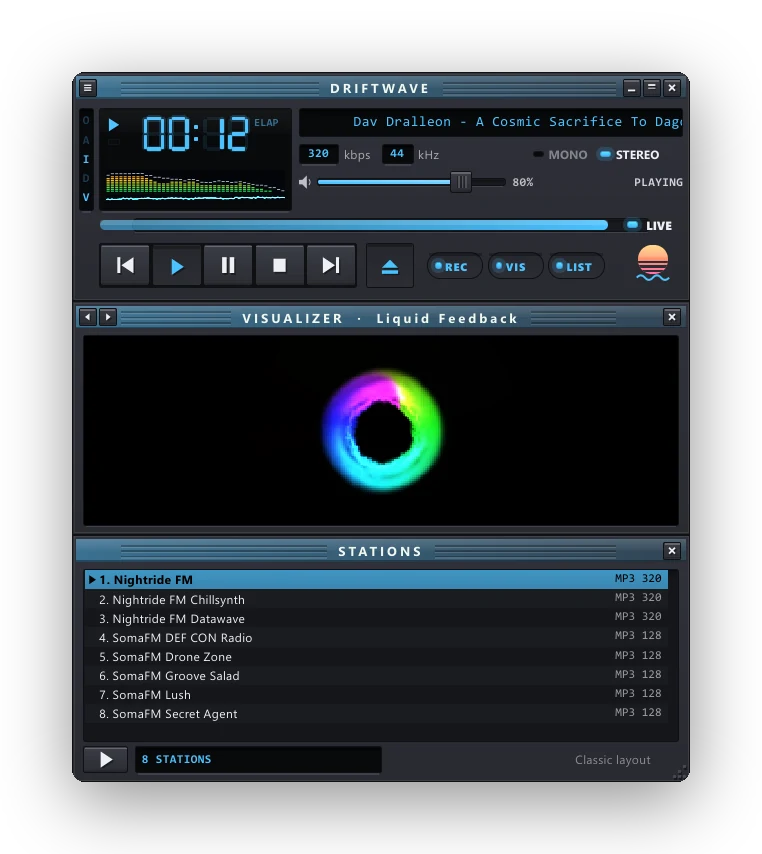
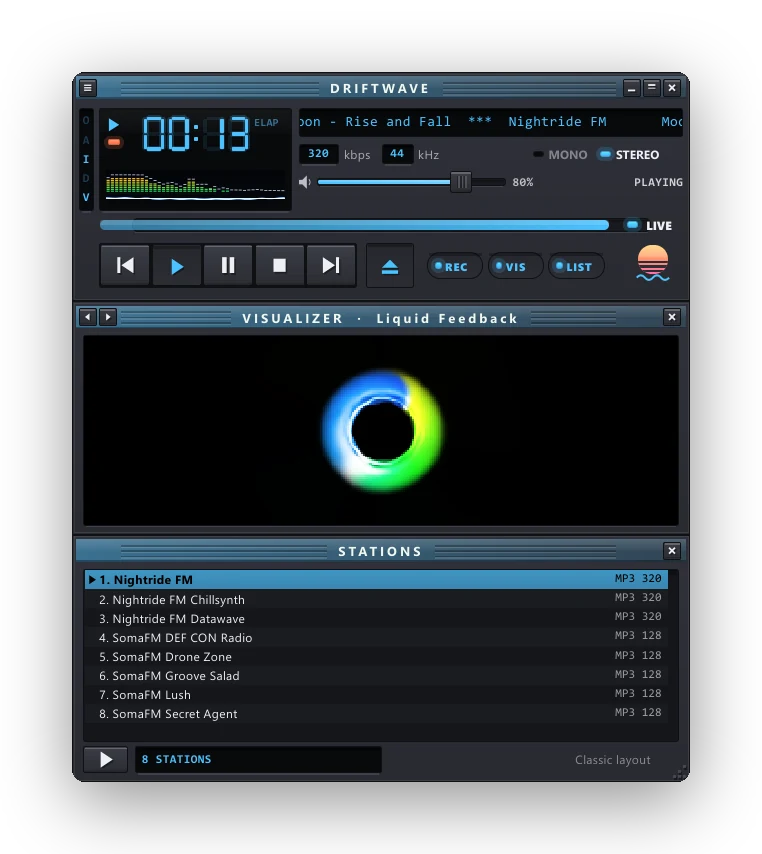
1.0.0-alpha.2: README pictures, smaller photos, sync doc round 16
- Version 1.0.0-alpha.2.
- README screenshots re-shot after the colour rule. The gallery gains
  Woodgrain and Home Screen. The text mentions Full's right-click menu
  and that Classic is made of the same material. The download is 15.8 MB.
- The colour-shifted photos are re-saved at quality 84 from the
  originals: smaller than before the shift, still clean.
- docs/MAC-WINDOWS-SYNC.md, round 16: what changed, and the Mac's asks
  before alpha.2 is published.

Claude-Session: https://claude.ai/code/session_01T34dZ1Pnukb4YPFUwMuNxf

diff --git a/tools/safe_hues.py b/tools/safe_hues.py
@@ -130,5 +130,5 @@ if __name__ == '__main__':
             if name.lower().endswith('.png'):
                 out.save(path, optimize=True)
             else:
-                out.save(path, quality=90, optimize=True)
+                out.save(path, quality=84, optimize=True, progressive=True)
             print(f'{name}: {before:.1f}% -> {share(out):.1f}% banned')

diff --git a/docs/MAC-WINDOWS-SYNC.md b/docs/MAC-WINDOWS-SYNC.md
@@ -8,6 +8,79 @@ other for something and reports back. Newest round at the top. Git is the transp
 - On 2026-11-17 the Mac fast-forwarded `nightly` to `windows` (09fd9a9), so the two share history
   and this file. Edit only your own side's sections to keep merges clean.
 
+## Round 16 (2026-11-20): the colour rule, Classic matches Full, Woodgrain, Full's right-click menu; alpha.2
+
+**Josh's asks:**
+- "Remove the teal and purple and pinks from any themes."
+- "Double check that the classic themes match the style of the normal themes so that when swapping between them,
+  they don't look off."
+- "The homage to the Atari one needs a lot of work … a sleek, sexy designer pass."
+- The right-click menu in the Full layout too.
+- Then: push, the Mac pulls and applies it to its build, and once both sides are good, a new release (alpha.2).
+
+**PC (done, on `rust`):**
+- **Full's right-click menu** (`app/src/full_menu.rs`).
+  - Anywhere in Full: Switch to Classic; Play/Stop, Previous, Next, Record Songs; Go To; Show Player; Moving Scenes;
+    Appearance; Theme; Settings; Quit.
+  - On a station card (Library, Discover, Search), that station's own actions come first: play or stop it, its
+    details, add or remove it, its homepage.
+  - The card says which one through `Dir.card-menu`, a `pointer-event` on the card that the winit right-click's 1 ms
+    timer then reads (`App::menu_card`).
+  - It stays shut in a focused text field and over Details, Add Station and the GIPHY search.
+  - Test runs: `-fullAction id;id`.
+- **The colour rule:** no teal, purple or pink anywhere (`core/src/hues.rs`, see docs/THEMES.md "The colour rule").
+  - `banned` decides, and a test holds every built-in theme to it, translucent tokens over their backgrounds
+    included.
+  - Recoloured themes:
+    - **Retrowave** is a midnight drive: navy sky, molten orange sun, electric-blue grid.
+    - **Night Market** burns vermilion and amber, with blue tubes.
+    - **Neon Noir** is amber and steel blue.
+    - **Retro 64** is in true blues.
+    - **Super 16** is grey with blue.
+    - **C:\ Prompt** is CGA yellow on blue.
+    - **Ninety-Five's** desktop is blue.
+    - Platinum, Frosted Glass, Big Glass, Luna, Program Manager, Home Screen (a new dawn wallpaper), Fluent and Aqua
+      are touched up.
+    - `tools/recolour-themes-2026-11.py` records them all.
+  - Pictures: `tools/safe_hues.py` moves them out of those hues. The art scripts run it last, and the photos are
+    redone (CREDITS.txt and THIRD-PARTY-NOTICES say so).
+  - Derived colours: `palette::ruled` runs over every Classic and Full colour (a navy lightened for a selection was
+    lavender). Placeholder tiles use `hues::nearest_allowed` and stay in their accent's family (`allowed_arc`).
+  - Visualizers:
+    - Their rainbows go through `hues::spread` and `safe_hsv` (in `canvas::hsv`).
+    - Ember's palettes are now fire, aurora, moonlight and ocean, in that order, so blue never blends into green.
+    - Waveland is blue land under an amber glow.
+    - Every frame passes `canvas::keep_the_rule` before the flash guard. A 32 KB cell table makes it about 0.09 ms a
+      frame on allowed colours.
+    - `vis/tests/colour_rule.rs` checks each visualizer over 75 s of music. Flash safety still passes.
+  - The one exception is our sunset logo (its pink edge). That's brand, and Josh decides it.
+- **Classic matches Full** (`app/src/palette.rs`, `look.rs`, `classic.slint`):
+  - Classic's frames are made of what Full's panels are: the surface, or the cards' colour when the surface is clear
+    (Ninety-Five's grey windows, not its desktop).
+  - They're as see-through as Full's panels (`see_through`). Glass themes show their picture, frosted as Full frosts
+    it, and materials (walnut, concrete) show the material.
+  - `look` thickens frames again only where the player frame's labels would drown.
+  - Labels on the frames have their own colour, `Pal.label` (readable on the face).
+  - A theme can set Classic's parts itself with the new `classic` effect. It's in `EFFECT_KINDS`, kept out of the
+    editor's list.
+- **Woodgrain**, redesigned:
+  - The window is rendered walnut veneer (`tools/make-woodgrain.py`: long grain, pores, a satin sheen), under a
+    ribbed black plastic top with a lit lip.
+  - Satin black panels, chrome-trimmed controls, the console's orange.
+  - In Classic the frames are the walnut, with chrome buttons and a black display.
+- **Merged** the cloud session's PRs: no console window, the README's Mac section, and the Mac release workflow.
+
+**Asks for the Mac:**
+1. Merge `rust`, then run clippy and the tests: `colour_rule` (vis), `hues` (core), and palette and fullpal (app).
+2. Build and look at both layouts in Woodgrain, Retrowave, Night Market, Home Screen, Aqua and C:\ Prompt. On the Mac
+   the scene layers are native, so check that:
+   - Classic's skin is frosted for glass themes;
+   - `Pal.see` comes through.
+3. Try Full's right-click menu on the Mac: a card, empty space, and a focused text field. `full_menu::open` uses the
+   same `classic_menu::host`, so `Host::AppKit`.
+4. Say "Mac good for alpha.2" here, or in a message, and the PC publishes it. The Mac zip then comes from the Mac
+   release workflow (Actions > Mac release, tag `v1.0.0-alpha.2`), unless you'd rather attach your own build.
+
 ## Mac notes after Round 14
 
 ### Mac: the resampler click (after c1f2029)

diff --git a/README.md b/README.md
@@ -17,6 +17,7 @@ expect rough edges, and tell us about them.
 ## One window, two looks
 
 **Full:** your library, Discover and Search, station details, the player and the songs it has played, and Settings.
+Right-click anywhere for a menu, and on a station for that station's own: play it, its details, add or remove it.
 
 ![The Full layout](docs/screenshots/full-default.webp)
 
@@ -32,13 +33,15 @@ back to Full. It scales by dragging its corner, and the music carries on as you 
 
 Default (light, dark, or following your system) plus 26 built-in themes, every one in both layouts. Some are photo
 scenes with rain running down the glass, neon, drifting light and moving street life; some are homages to the
-desktops of their eras. Make your own in the theme editor, or put your own picture or GIF behind the window. Nothing
+desktops of their eras. Each looks the same in Classic as in Full: Classic's frames are made of the same glass,
+walnut or metal. Make your own in the theme editor, or put your own picture or GIF behind the window. Nothing
 ever flashes: moving scenes hold still on a slower computer or when Driftwave isn't in front.
 
 | | |
 |---|---|
 | ![Retrowave](docs/screenshots/full-retrowave.webp) | ![Aqua](docs/screenshots/full-aqua.webp) |
 | ![Ninety-Five](docs/screenshots/full-ninety-five.webp) | ![Analog 70s](docs/screenshots/full-analog.webp) |
+| ![Woodgrain](docs/screenshots/full-woodgrain.webp) | ![Home Screen](docs/screenshots/full-home-screen.webp) |
 
 ![Settings, with the theme gallery](docs/screenshots/full-themes.webp)
 
@@ -49,7 +52,7 @@ program with nothing else to install, it downloads in a moment, and while it pla
 
 | Measured on a Windows PC | |
 |---|---|
-| Download | 15.6 MB |
+| Download | 15.8 MB |
 | Memory | about 46 MB while playing |
 | CPU | under 1% of one core while playing (Default theme); a few percent with Classic's visualizer or a moving scene in front |
 
